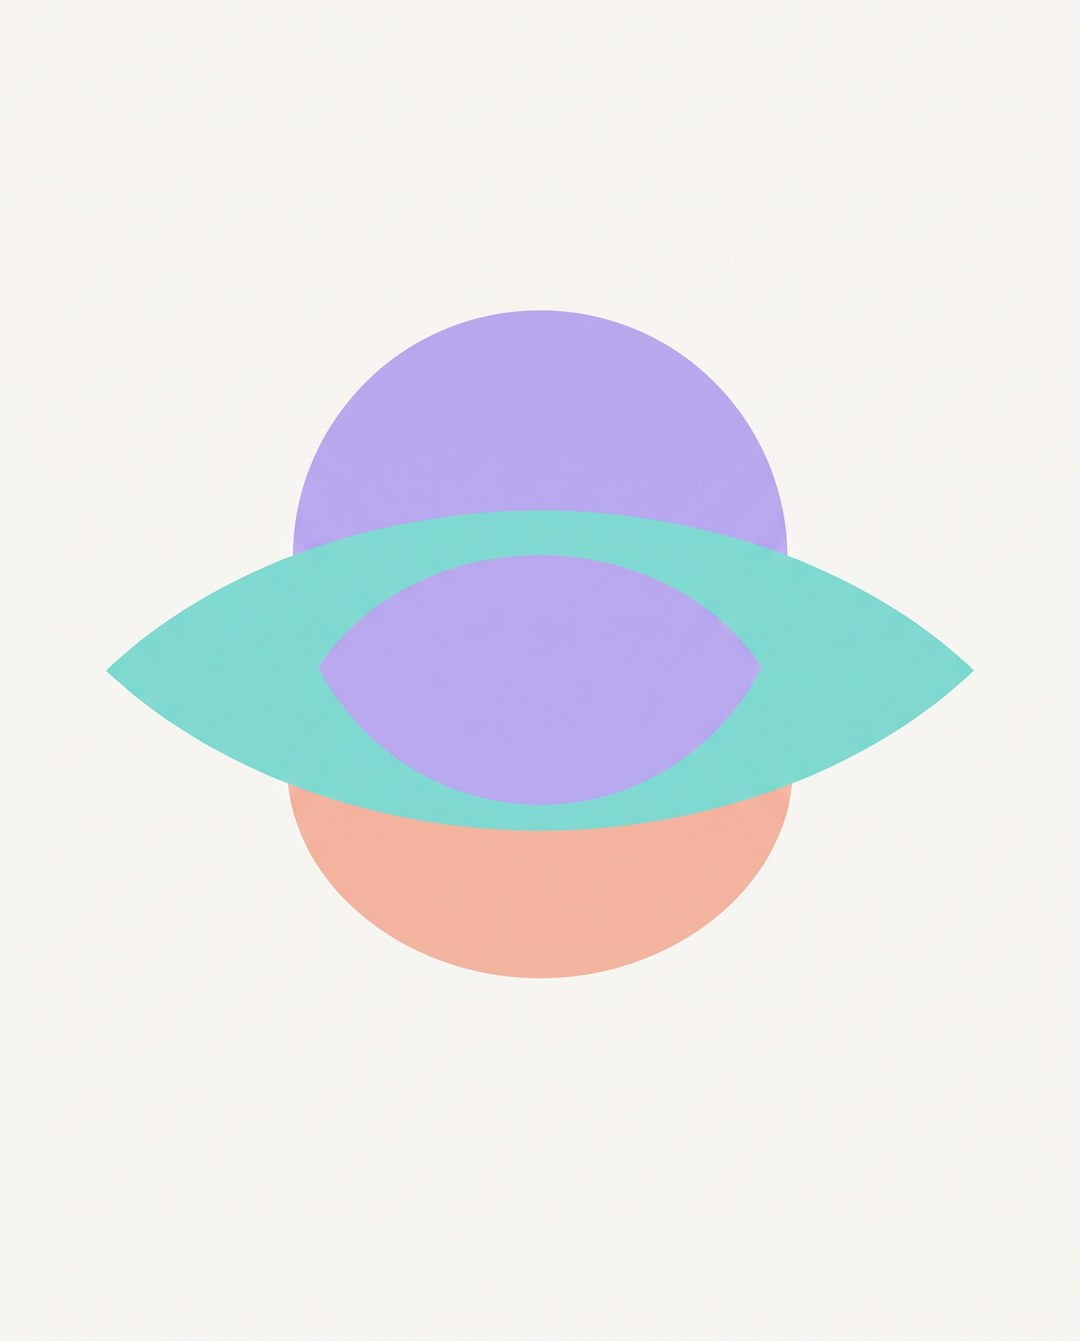
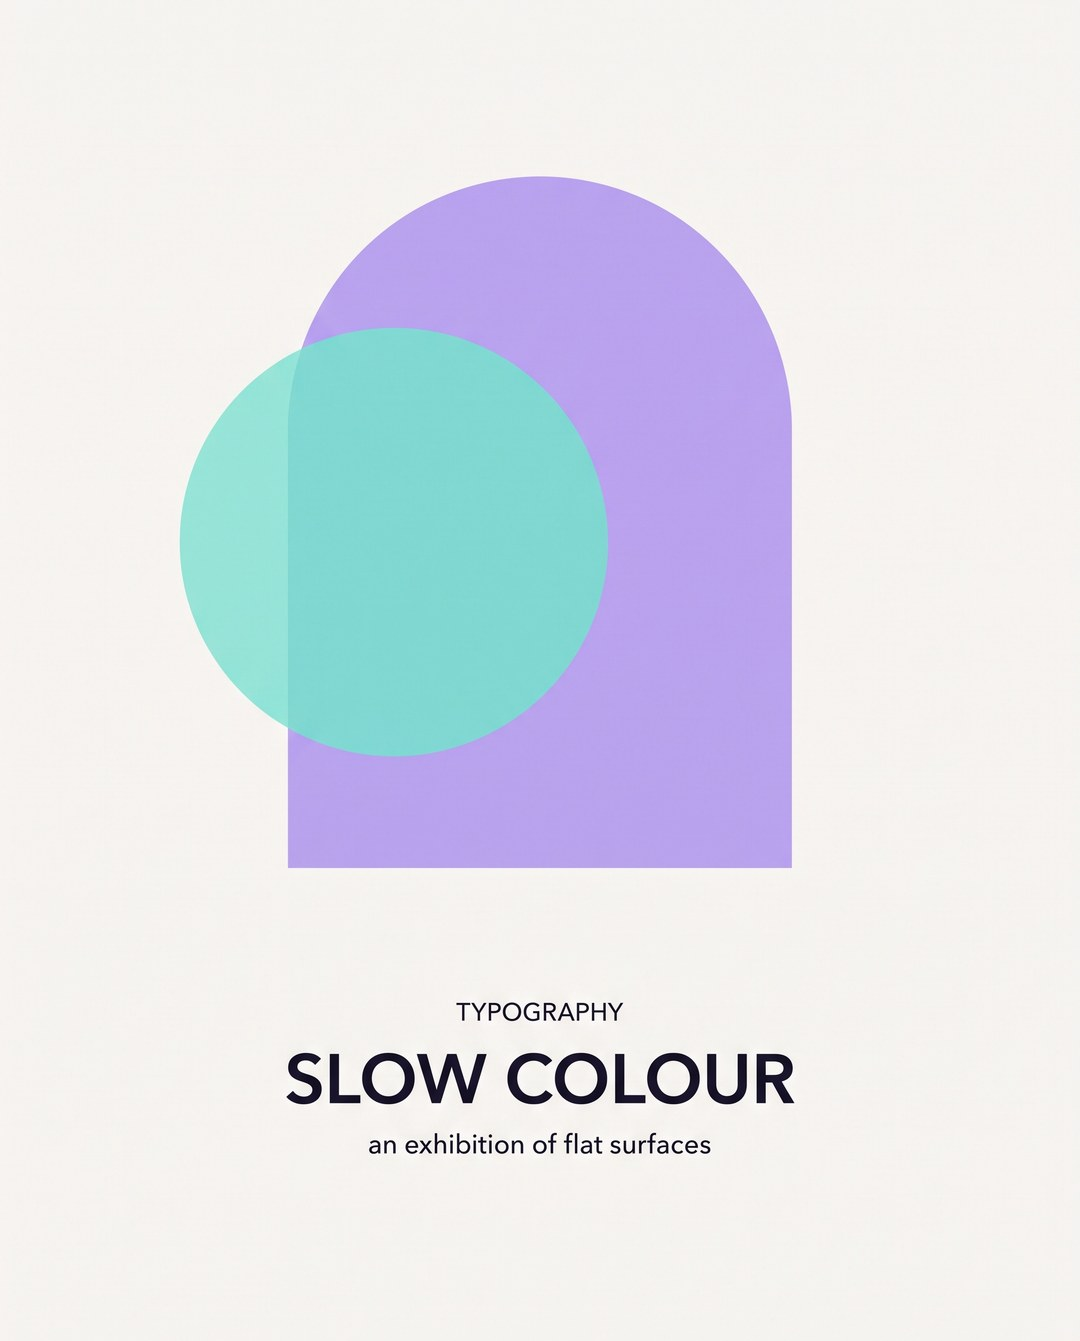
board vira folha de contato: as 21 referencias, tres por estilo
Mostrar uma referencia por estilo economizava altura e escondia o que importa:
as tres de cada estilo sao o MESMO sistema em tres arquetipos de layout, e e
justamente isso que decide se a direcao aguenta oito cards. Agora cada estilo
ocupa uma linha — nome e descricao a esquerda, as tres composicoes a direita,
cada uma rotulada com o arquetipo que representa.

E os dois estilos novos ganharam variante COM LETREIRO, para nao destoarem das
quinze antigas: "quiet systems" no terminal, "SLOW COLOUR" no iridescente. A
referencia existe para mostrar como o tipo se comporta dentro do sistema —
sem palavra nenhuma na peca, o usuario escolhe um fundo, nao uma direcao.

Isso e a unica excecao a cauda ABSOLUTELY NO TEXT, e nao afrouxa o principio 1:
nenhuma dessas imagens vira card.

Tres armadilhas anotadas, uma geracao cada:

- o modelo imprime o proprio prompt. Pedir tipografia junto com a paleta em hex
  devolveu um cartaz com "blue #6E8BFF / green #4ADE9B" escrito nele.
- e imprime os escapes: pedir o titulo entre aspas "em duas linhas" devolveu a
  peca com o escape literal desenhado nela.
- a clausula de sangria caiu quando entrou o paragrafo de tipografia, e o
  cartaz voltou emoldurado numa borda clara. Ela precisa ABRIR o prompt.

Changed region(s): [[0.0917, 0.1223, 0.9167, 0.8561]]

diff --git a/assets/board/board.html b/assets/board/board.html
@@ -40,12 +40,18 @@ h1{font-family:'BT';font-weight:500;font-size:62px;line-height:1.02;letter-spaci
 .cab p{font-size:21px;line-height:1.5;color:#333;margin-top:12px;max-width:1160px}
 .cab p b{font-weight:600;color:#161616}
 
-.fila{display:flex;gap:24px;margin-top:30px}
-.fig{width:352px}
-.fig img{width:352px;height:437px;object-fit:cover;display:block;
+.estilo{display:flex;gap:38px;margin-top:34px;align-items:flex-start}
+.estilo .info{width:392px;flex:none;padding-top:2px}
+.estilo h4{font-family:'BT';font-weight:500;font-size:30px;letter-spacing:-.012em}
+.estilo .info p{font-size:19px;line-height:1.45;color:#3A3A3A;margin-top:9px}
+/* as três variantes são os três ARQUÉTIPOS de layout do mesmo sistema: uma capa
+   bonita não prova nada, o que quebra no card 5 é o estilo não ter três composições */
+.tres{display:flex;gap:18px}
+.tres figure{width:326px}
+.tres img{width:326px;height:405px;object-fit:cover;display:block;
   box-shadow:0 0 0 1px rgba(0,0,0,.13)}
-.fig h4{font-family:'BT';font-weight:500;font-size:26px;margin-top:16px;letter-spacing:-.01em}
-.fig p{font-size:18px;line-height:1.44;color:#3A3A3A;margin-top:7px}
+.tres figcaption{font-family:'BM';font-size:14px;letter-spacing:.09em;text-transform:uppercase;
+  color:#6A6A6A;margin-top:9px}
 
 .pe{margin-top:64px;border-top:1px solid rgba(0,0,0,.25);padding-top:22px;
     font-family:'BM';font-size:16px;line-height:1.6;color:#4A4A4A;letter-spacing:.02em}
@@ -89,14 +95,27 @@ que funcionam melhor nele.</p>
          melhores sem.</p>
     </div>
   </div>
-  <div class="fila">
-    <div class="fig"><img src="../referencias/terminal-1-split.jpg">
+    <div class="estilo">
+    <div class="info">
       <h4>Terminal</h4>
-      <p>Fundo chumbo, letra de código leve, e cor só em fichas curtas. Cada cor quer dizer
-         uma coisa fixa.</p></div>
-    <div class="fig"><img src="../referencias/irid-2-cascata.jpg">
+      <p>Fundo chumbo, letra de código leve, e cor só em fichas curtas. Cada cor quer dizer uma coisa fixa: azul estrutura, verde valor, âmbar medida, magenta o que quebra.</p>
+    </div>
+    <div class="tres">
+      <figure><img src="../referencias/terminal-1-split.jpg"><figcaption>editorial split</figcaption></figure>
+      <figure><img src="../referencias/terminal-2-cascata.jpg"><figcaption>cascata z</figcaption></figure>
+      <figure><img src="../referencias/terminal-3-bento.jpg"><figcaption>bento assimétrico</figcaption></figure>
+    </div>
+  </div>
+  <div class="estilo">
+    <div class="info">
       <h4>Iridescente minimal</h4>
-      <p>Papel claro sempre, uma forma grande no meio e nada em volta. A cor vive só na forma.</p></div>
+      <p>Papel claro sempre, uma forma grande no meio e nada em volta. A cor vive só na forma, e é ela que muda de um card para o outro.</p>
+    </div>
+    <div class="tres">
+      <figure><img src="../referencias/irid-1-split.jpg"><figcaption>editorial split</figcaption></figure>
+      <figure><img src="../referencias/irid-2-cascata.jpg"><figcaption>cascata z</figcaption></figure>
+      <figure><img src="../referencias/irid-3-bento.jpg"><figcaption>bento assimétrico</figcaption></figure>
+    </div>
   </div>
 </div>
 
@@ -111,15 +130,27 @@ que funcionam melhor nele.</p>
          responder ao seu assunto em vez de ser a que existia.</p>
     </div>
   </div>
-  <div class="fila">
-    <div class="fig"><img src="../referencias/riso-3-bento.jpg">
+    <div class="estilo">
+    <div class="info">
       <h4>Risografia com textura</h4>
-      <p>Duas tintas que se cruzam e criam uma terceira cor. Erro de impressão de propósito,
-         retícula e fibra de papel.</p></div>
-    <div class="fig"><img src="../referencias/colagem-3-bento.jpg">
+      <p>Duas tintas que se cruzam e criam uma terceira cor. Erro de impressão de propósito, retícula grossa e fibra de papel por cima de tudo.</p>
+    </div>
+    <div class="tres">
+      <figure><img src="../referencias/riso-1-split.jpg"><figcaption>editorial split</figcaption></figure>
+      <figure><img src="../referencias/riso-2-cascata.jpg"><figcaption>cascata z</figcaption></figure>
+      <figure><img src="../referencias/riso-3-bento.jpg"><figcaption>bento assimétrico</figcaption></figure>
+    </div>
+  </div>
+  <div class="estilo">
+    <div class="info">
       <h4>Mixed media / colagem</h4>
-      <p>Camadas de origens diferentes no mesmo plano, com toda emenda à mostra: recorte, fita,
-         rabisco, papel milimetrado.</p></div>
+      <p>Camadas de origens diferentes no mesmo plano, com toda emenda à mostra: recorte de tesoura, fita, rabisco, papel milimetrado.</p>
+    </div>
+    <div class="tres">
+      <figure><img src="../referencias/colagem-1-split.jpg"><figcaption>editorial split</figcaption></figure>
+      <figure><img src="../referencias/colagem-2-cascata.jpg"><figcaption>cascata z</figcaption></figure>
+      <figure><img src="../referencias/colagem-3-bento.jpg"><figcaption>bento assimétrico</figcaption></figure>
+    </div>
   </div>
 </div>
 
@@ -134,25 +165,46 @@ que funcionam melhor nele.</p>
          você resolver ligar um gerador.</p>
     </div>
   </div>
-  <div class="fila">
-    <div class="fig"><img src="../referencias/brutalista-2-cascata.jpg">
+    <div class="estilo">
+    <div class="info">
       <h4>Brutalista vetorial</h4>
-      <p>Formas chapadas de aresta dura sobre papel cru, e tipografia gigante tratada como
-         material de construção.</p></div>
-    <div class="fig"><img src="../referencias/neubrutal-2-cascata.jpg">
+      <p>Formas chapadas de aresta dura sobre papel cru, e tipografia gigante tratada como material de construção. Uma cor de sinal, e só.</p>
+    </div>
+    <div class="tres">
+      <figure><img src="../referencias/brutalista-1-split.jpg"><figcaption>editorial split</figcaption></figure>
+      <figure><img src="../referencias/brutalista-2-cascata.jpg"><figcaption>cascata z</figcaption></figure>
+      <figure><img src="../referencias/brutalista-3-bento.jpg"><figcaption>bento assimétrico</figcaption></figure>
+    </div>
+  </div>
+  <div class="estilo">
+    <div class="info">
       <h4>Neo-brutalismo colorido</h4>
-      <p>Contorno preto grosso e sombra dura sobre campo saturado. Acerta fácil — e é o visual
-         mais usado hoje, então envelhece rápido.</p></div>
-    <div class="fig"><img src="../referencias/editorial-1-split.jpg">
+      <p>Contorno preto grosso e sombra dura sobre campo saturado. Acerta fácil — e é o visual mais usado em post de design hoje, então envelhece rápido.</p>
+    </div>
+    <div class="tres">
+      <figure><img src="../referencias/neubrutal-1-split.jpg"><figcaption>editorial split</figcaption></figure>
+      <figure><img src="../referencias/neubrutal-2-cascata.jpg"><figcaption>cascata z</figcaption></figure>
+      <figure><img src="../referencias/neubrutal-3-bento.jpg"><figcaption>bento assimétrico</figcaption></figure>
+    </div>
+  </div>
+  <div class="estilo">
+    <div class="info">
       <h4>Minimalista editorial quente</h4>
-      <p>Duas colunas, serifa de contraste alto e muito papel vazio. Aceita uma foto grande
-         sangrando por um lado — uma, não oito.</p></div>
+      <p>Duas colunas, serifa de contraste alto e muito papel vazio. Aceita uma foto grande sangrando por um lado — uma, não oito.</p>
+    </div>
+    <div class="tres">
+      <figure><img src="../referencias/editorial-1-split.jpg"><figcaption>editorial split</figcaption></figure>
+      <figure><img src="../referencias/editorial-2-cascata.jpg"><figcaption>cascata z</figcaption></figure>
+      <figure><img src="../referencias/editorial-3-bento.jpg"><figcaption>bento assimétrico</figcaption></figure>
+    </div>
   </div>
 </div>
 
 <div class="pe">
-  Sete estilos ao todo. Este board mostra por onde começar; as três referências de cada estilo
-  escolhido abrem depois, no tamanho cheio.<br>
+  Sete estilos, três composições cada — as vinte e uma referências que vêm dentro da skill.
+  As três de cada estilo são o mesmo sistema em três arquétipos de layout, e é por isso que são
+  três: uma capa bonita não prova nada, o que quebra no card 5 é o estilo não ter composição
+  para o card 5.<br>
   Nada aqui é a arte do seu carrossel — são referências fixas da skill, para você escolher a
   direção.
 </div>

diff --git a/references/estilos.md b/references/estilos.md
@@ -591,4 +591,23 @@ disputam a mesma camada; a paleta de um com a grade do outro quase sempre perde 
 
 ## Procedência das referências
 
+**As referências têm letreiro; os cards não.** É a única exceção à cauda `ABSOLUTELY NO TEXT` que
+vale para toda geração desta skill, e ela é deliberada: a referência existe para mostrar **como o
+tipo se comporta dentro daquele sistema** — que tamanho ocupa, onde pousa, quanto de vazio sobra
+em volta. Sem uma palavra na peça, o usuário está escolhendo um fundo, não uma direção.
+
+Isso não afrouxa o princípio 1: **nenhuma dessas imagens vira card.** Elas são vitrine, e o
+letreiro delas é decorativo — em inglês, curto, e ninguém vai lê-lo como conteúdo.
+
+Duas armadilhas apareceram gerando as duas com texto dos estilos novos, e valem para qualquer
+regeração:
+
+- **o modelo imprime o próprio prompt.** Pedir tipografia junto com a paleta em hex devolveu um
+  cartaz com `blue #6E8BFF / green #4ADE9B` escrito nele. Some com os hex de perto da instrução
+  de tipografia, ou proíba explicitamente: `no colour names, no hexadecimal codes`
+- **e imprime os escapes.** Pedir `"quiet systems" on two lines` devolveu a peça com o escape
+  literal desenhado nela. Diga *a primeira linha lê X, a segunda lê Y* — sem aspas e sem barra
+
+
+
 As vinte e uma imagens de `assets/referencias/` foram geradas com **Nano Banana Pro** via MCP do Higgsfield, em 4:5, 2K, a partir de prompts que combinam: o briefing de sistema acima, a especificação de paleta e material de cada estilo, os três arquétipos de layout do variance engine da `high-end-visual-design`, e a lista de antipadrões da `bencium-innovative-ux-designer` aplicada como negativa. Os masters em resolução cheia ficam fora do repositório.
